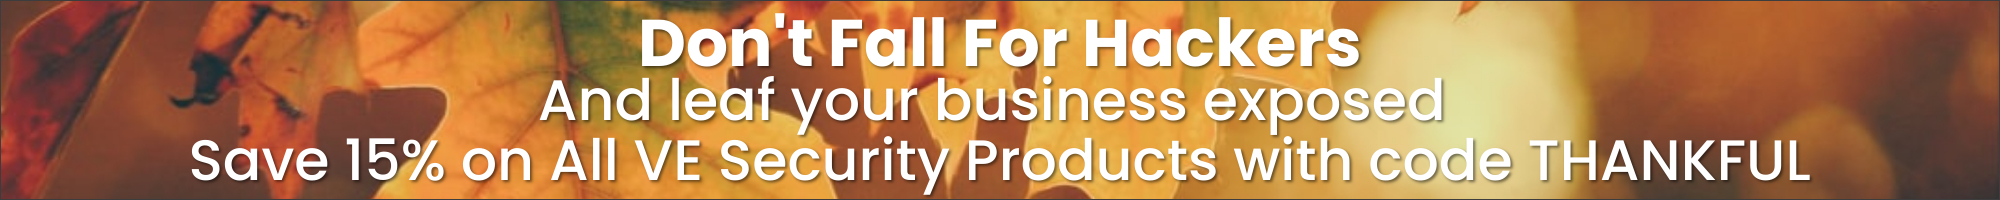
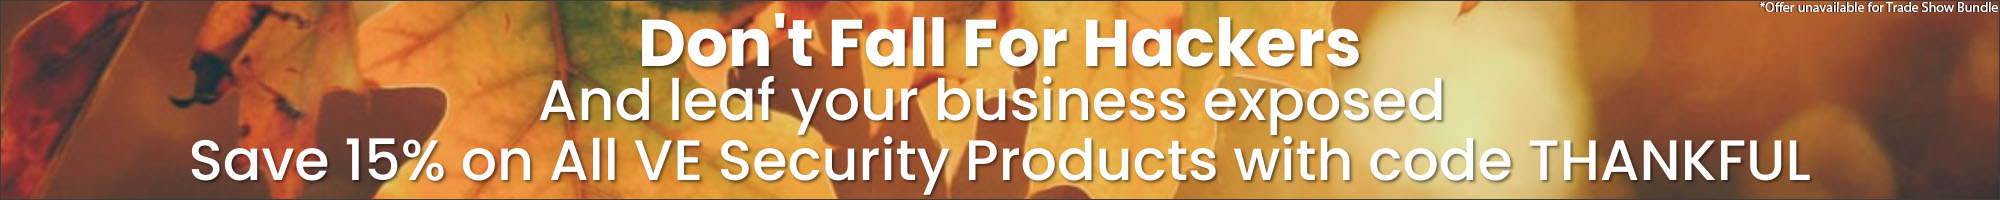
Trade Show Update
- Modified Thankful Promotion Image to include disclaimer
- Added one camera system item
- Added Trade Show Bundle Item

Changed region(s): [[0.868, 0.0, 1.0, 0.06], [0.558, 0.54, 0.589, 0.57], [0.558, 0.45, 0.589, 0.48]]

diff --git a/index.html b/index.html
@@ -86,7 +86,60 @@
 
         <!--START OF CAMERAS-->
 
+        <!--Camera System (Single)-->
+        <div class="col l4 m6 s12 gallery-item gallery-expand gallery-filter cameras">
+          <div class="gallery-curve-wrapper">
+            <a class="gallery-cover gray">
+              <img class="responsive-img" src="/img/products/cam.png" alt="One Camera System">
+            </a>
+            <div class="gallery-header">
+              <span>One Camera System</span>
+              <code class="right red-text">Starting at $119.99</code>
+            </div>
+            <div class="gallery-body">
+              <div class="title-wrapper">
+                <h3>One Camera System</h3>
+                <span class="price">Starts at $119.99</span>
+              </div>
 
+              <h4>About This Product</h4>
+              <p class="description">
+                One 1080p 30fps camera and a base system to control them. 500GB Storage</p>
+
+              <h4>Optional Items</h4>
+              <p class="description">Purchase our <b>One Year Warranty to replace your cameras should they malfunction
+                  at no extra cost.</b></p>
+              <p class="description">Purchase our <b>Cloud Storage Subscription</b> to backup and view your security
+                footage over the cloud. Available in 250GB, 500GB, 1TB, and 2TB options.</p>
+
+              <p class="description">Purchase a of our <b>Camera Bundle</b> to receive a camera, one year
+                warranty, and cloud storage at a reduced price.</p>
+              <div class="row center">
+                <div class="col m1 hide-on-small-only"></div>
+                <a class="btn btn-large red darken-3 col s12 m4" href="https://portal.veinternational.org/buybuttons/us041130/btn/1-camera-system-202030/"><i
+                    class="material-icons left">shopping_cart</i>Add to Cart</a>
+                <div class="col m2 hide-on-small-only"></div>
+                <a class="btn btn-large green darken-3 col s12 m4 disabled"><i
+                    class="material-icons left">folder</i>Purchase Camera Bundle</a>
+                <div class="col m1 hide-on-small-only"></div>
+
+
+              </div>
+
+              <div class="row">
+                <div class="col m1 hide-on-small-only"></div>
+                <a class="btn btn-large yellow darken-3 col s12 m4 disabled"><i
+                    class="material-icons left">lock</i>Purchase Warranty</a>
+                <div class="col m2 hide-on-small-only"></div>
+                <a class="btn btn-large blue darken-3 col s12 m4 disabled"><i
+                    class="material-icons left">cloud</i>Purchase Cloud Storage</a>
+                <div class="col m1 hide-on-small-only"></div>
+              </div>
+
+
+            </div>
+          </div>
+        </div>
 
         <!--Camera System (Standard)-->
         <div class="col l4 m6 s12 gallery-item gallery-expand gallery-filter cameras">
@@ -255,7 +308,7 @@
                 class="black-text">Four Camera System<code class="right red-text">$599.99</code></span></a></li>
           <li>
             <a
-              href="https://portal.veinternational.org/buybuttons/us041130/btn/8-camera-system-deluxe-system-202022/"><span
+              href="https://portal.veinternational.org/buybuttons/us041130/btn/8-camera-system-deluxe-system-202022/("><span
                 class="black-text">Eight Camera System<code class="right red-text">$999.99</code></span></a></li>
           <li>
             <a
@@ -352,6 +405,37 @@
                 <div class="col m1 hide-on-small-only"></div>
                 <a class="btn btn-large red darken-3 col s12 m4"
                 href="https://portal.veinternational.org/buybuttons/us041130/btn/computer-file-cleaner-202029/"><i
+                  class="material-icons left">shopping_cart</i>Add to Cart</a>
+              </div>
+
+            </div>
+          </div>
+        </div>
+
+        <!--Start of Specials-->
+
+        <!--Trade Show Bundle-->
+        <div class="col l4 m6 s12 gallery-item gallery-expand gallery-filter software">
+          <div class="gallery-curve-wrapper">
+            <a class="gallery-cover gray">
+              <img class="responsive-img" src="img/products/tradeshow.png" alt="placeholder">
+            </a>
+            <div class="gallery-header">
+              <span>Trade Show Bundle</span>
+              <code class="right red-text">$4,650.00</code>
+            </div>
+            <div class="gallery-body">
+              <div class="title-wrapper">
+                <h3>Trade Show Bundle</h3>
+                <span class="price">$4,650.00</span>
+              </div>
+              <p class="description">
+                Save on VE Security products by purchasing the Trade Show Bundle.
+              </p>
+              <div class="row">
+                <div class="col m1 hide-on-small-only"></div>
+                <a class="btn btn-large red darken-3 col s12 m4"
+                href="https://portal.veinternational.org/buybuttons/us041130/btn/trade-show-special-202040/"><i
                   class="material-icons left">shopping_cart</i>Add to Cart</a>
               </div>
 
